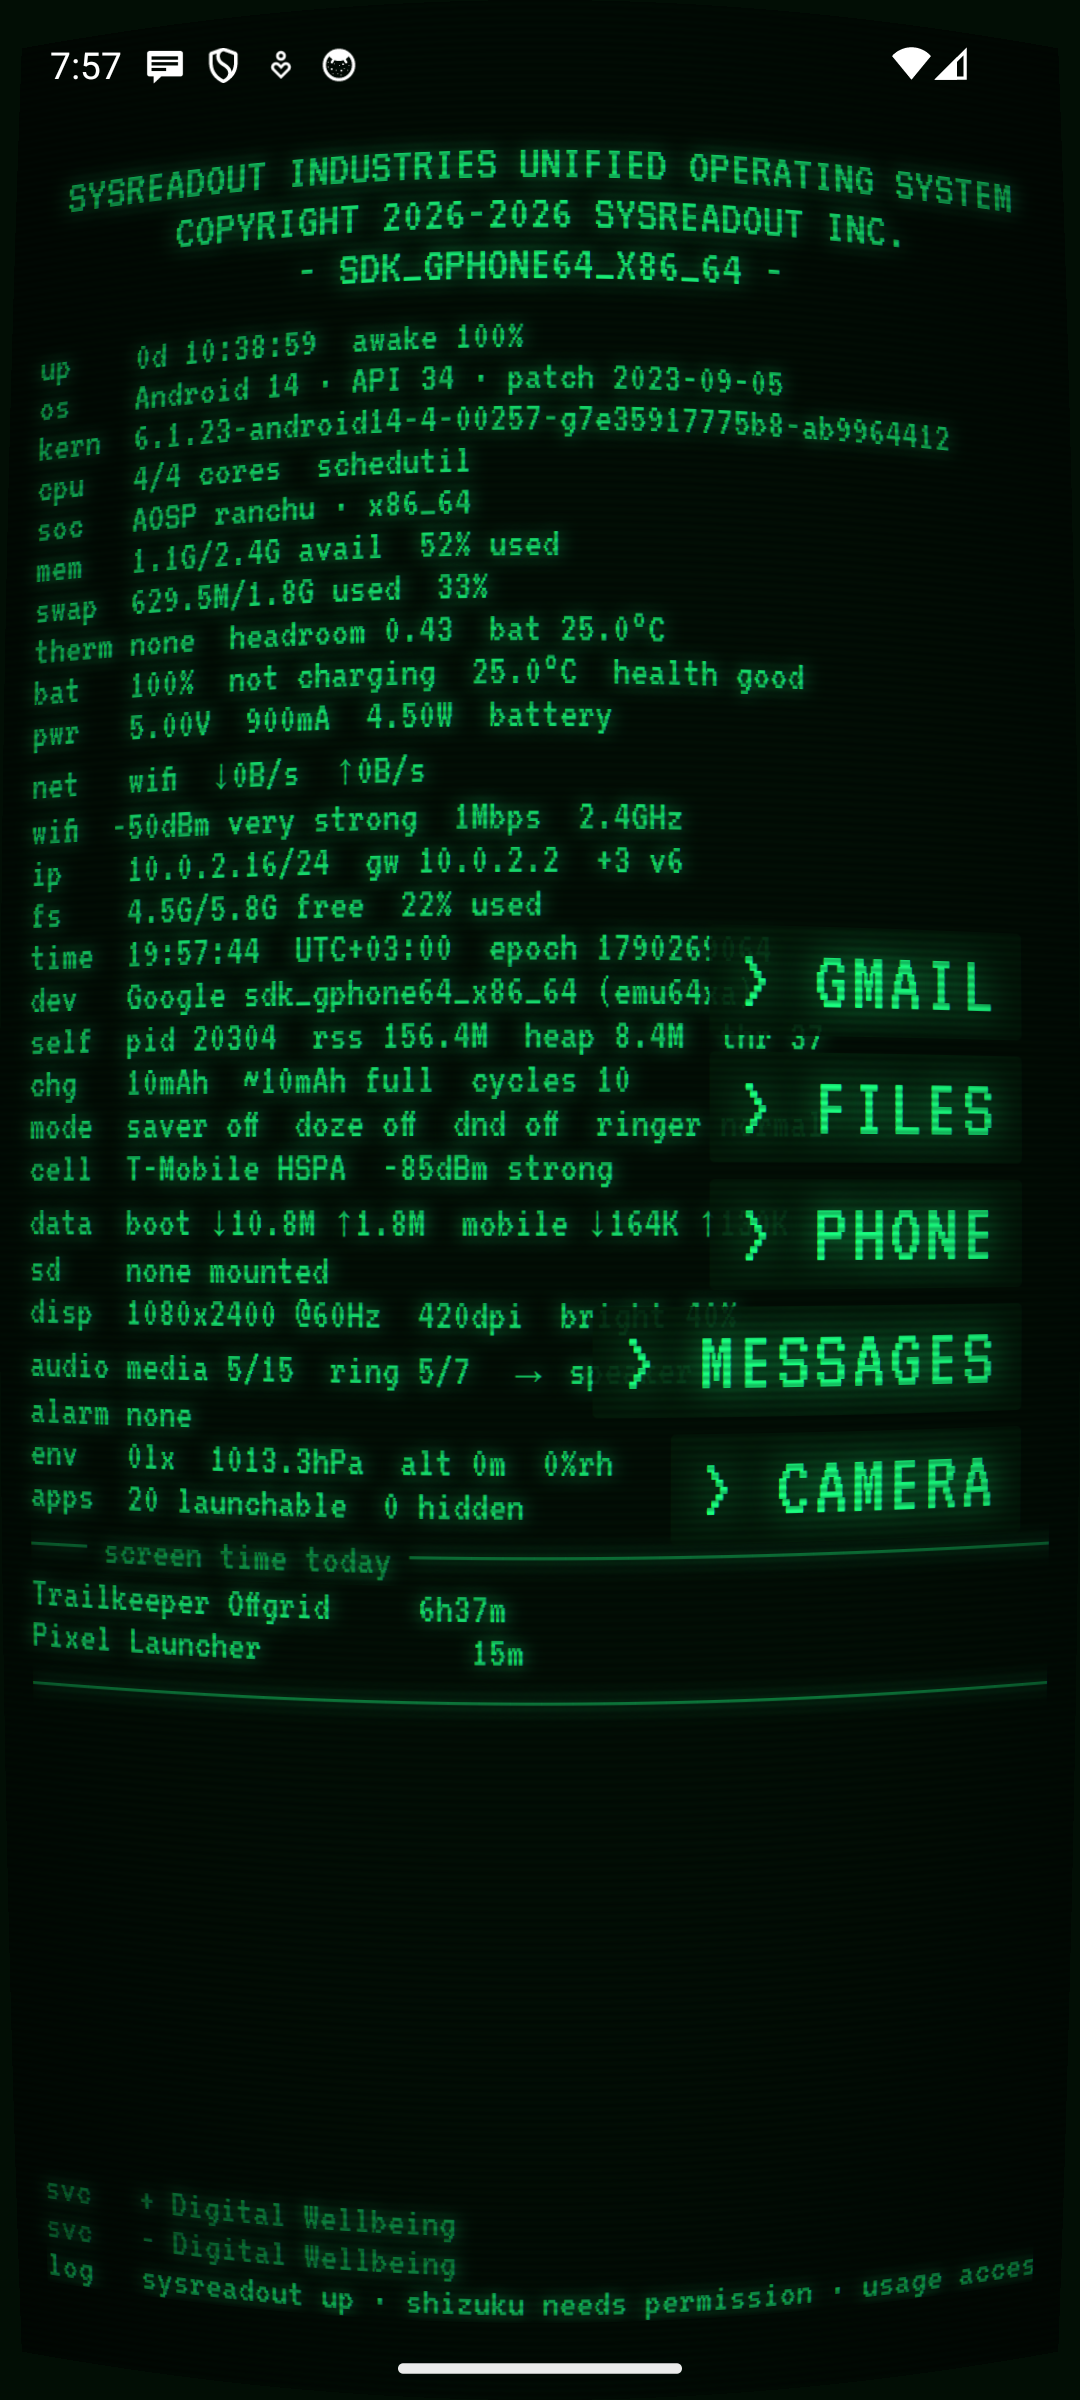
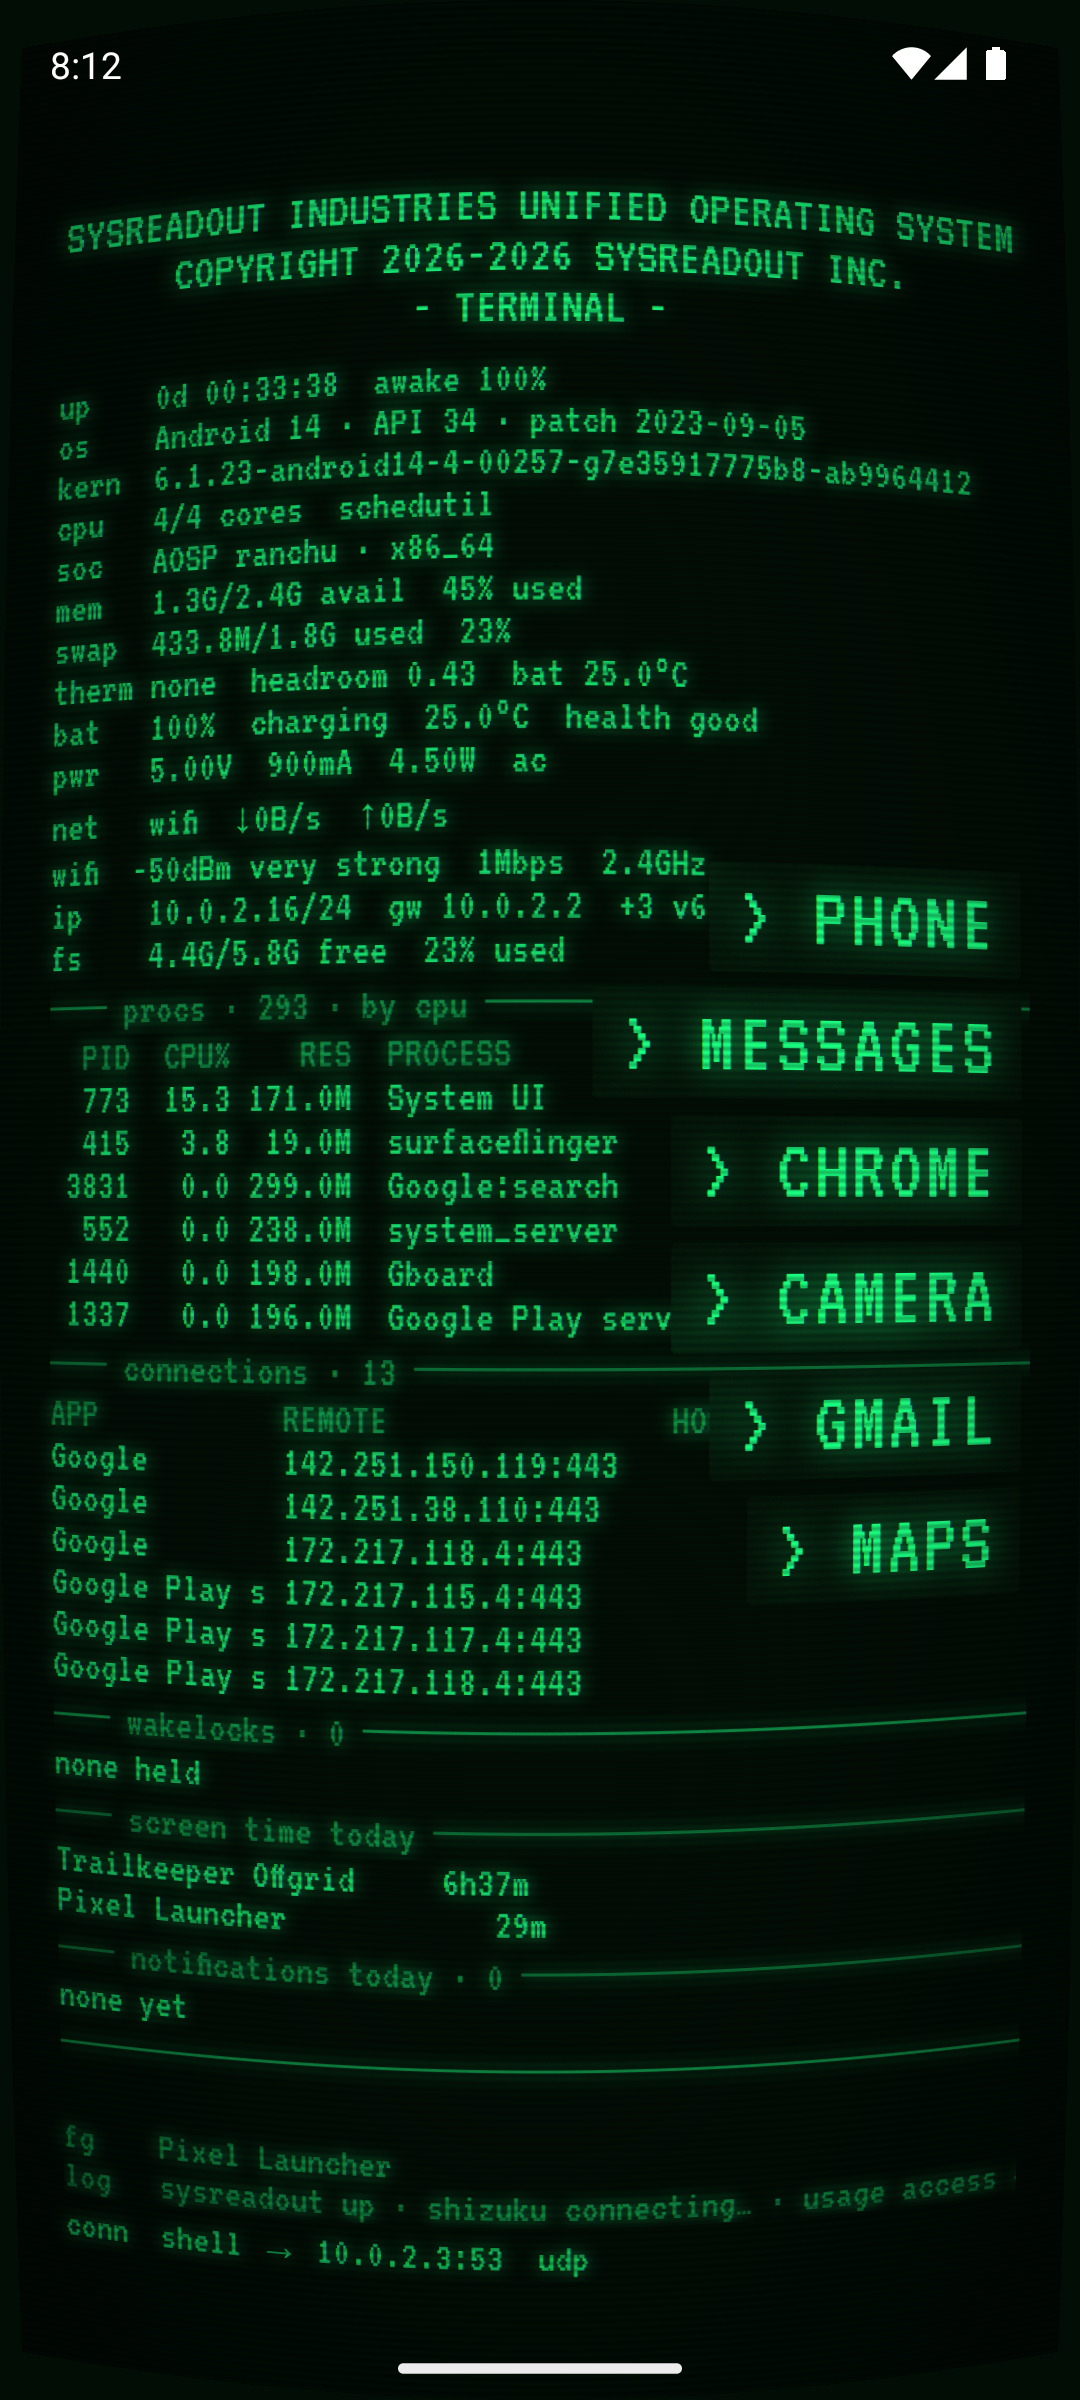
SysReadout Launcher 0.2.1: screenshots of every look
Store screenshots redone on the current version: all seven presets, a clean
home screen with the log switched off, the feed layout with Shizuku data, the
presets in settings, the drawer, the Shizuku setup page and the lock-screen
snapshot. The store description now says it can be a plain, quiet launcher.

Fixed: right after start, the log's first line could say Shizuku was off
although it was already connecting (Shizuku is now switched on before the
log starts).

Debug builds get unsaved home-screen previews over adb for screenshots
(--es pinned, --es style, --ez log/clock/date/shizuku, --es halign/valign).

diff --git a/app/src/main/java/com/asnidev/sysreadout/LauncherViewModel.kt b/app/src/main/java/com/asnidev/sysreadout/LauncherViewModel.kt
@@ -18,6 +18,9 @@ import androidx.lifecycle.viewModelScope
 import com.asnidev.sysreadout.apps.AppEntry
 import com.asnidev.sysreadout.apps.AppRepository
 import com.asnidev.sysreadout.data.AppKey
+import com.asnidev.sysreadout.data.EntryStyle
+import com.asnidev.sysreadout.data.HAlign
+import com.asnidev.sysreadout.data.VAlign
 import com.asnidev.sysreadout.data.LauncherPrefs
 import com.asnidev.sysreadout.data.LockMode
 import com.asnidev.sysreadout.data.LogLayout
@@ -59,6 +62,35 @@ import java.io.File
 
 enum class Screen { HOME, DRAWER, SETTINGS }
 
+/**
+ * Debug builds only: home-screen settings to show without saving them, for
+ * screenshots and quick looks. Null fields keep the saved value.
+ */
+data class HomePreview(
+    /** App labels, in order. */
+    val pinned: List<String>? = null,
+    val style: EntryStyle? = null,
+    val showLog: Boolean? = null,
+    val showClock: Boolean? = null,
+    val showDate: Boolean? = null,
+    val hAlign: HAlign? = null,
+    val vAlign: VAlign? = null,
+    val shizuku: Boolean? = null,
+) {
+    fun applyTo(m: MonitorPrefs): MonitorPrefs = shizuku?.let { m.copy(shizuku = it) } ?: m
+
+    fun applyTo(p: LauncherPrefs, apps: List<AppEntry>): LauncherPrefs = if (this == HomePreview()) p else p.copy(
+        pinned = pinned?.mapNotNull { label -> apps.firstOrNull { !it.isWork && it.label.equals(label, ignoreCase = true) }?.key }
+            ?: p.pinned,
+        entryStyle = style ?: p.entryStyle,
+        showLog = showLog ?: p.showLog,
+        showClock = showClock ?: p.showClock,
+        showDate = showDate ?: p.showDate,
+        hAlign = hAlign ?: p.hAlign,
+        vAlign = vAlign ?: p.vAlign,
+    )
+}
+
 class LauncherViewModel(app: Application) : AndroidViewModel(app) {
 
     // Background work that fails is logged, never allowed to crash the home screen.
@@ -75,14 +107,19 @@ class LauncherViewModel(app: Application) : AndroidViewModel(app) {
     private val store = SettingsStore(app)
 
     val apps: StateFlow<List<AppEntry>> = repo.apps
+    /** Debug builds only: home settings shown without being saved (`--es pinned …`, see MainActivity). */
+    val homePreview = MutableStateFlow(HomePreview())
+
     val prefs: StateFlow<LauncherPrefs> =
-        store.prefs.stateIn(scope, SharingStarted.Eagerly, LauncherPrefs())
+        combine(store.prefs, homePreview, repo.apps) { p, preview, apps -> preview.applyTo(p, apps) }
+            .stateIn(scope, SharingStarted.Eagerly, LauncherPrefs())
     val theme: StateFlow<Theme> =
         store.theme.stateIn(scope, SharingStarted.Eagerly, Presets.default.theme)
     val userPresets: StateFlow<List<Preset>> =
         store.presets.stateIn(scope, SharingStarted.Eagerly, emptyList())
     val monitor: StateFlow<MonitorPrefs> =
-        store.monitor.stateIn(scope, SharingStarted.Eagerly, MonitorPrefs())
+        combine(store.monitor, homePreview) { m, preview -> preview.applyTo(m) }
+            .stateIn(scope, SharingStarted.Eagerly, MonitorPrefs())
 
     /** Completed once the saved settings have reached [prefs] and [monitor] (they start as defaults). */
     private val settingsLoaded = CompletableDeferred<Unit>()
@@ -131,9 +168,11 @@ class LauncherViewModel(app: Application) : AndroidViewModel(app) {
                 val p = store.prefs.first()
                 // The StateFlows catch up on this same main thread a moment later.
                 withTimeoutOrNull(2_000) {
-                    monitor.first { it == m }
-                    prefs.first { it == p }
+                    monitor.first { it == homePreview.value.applyTo(m) }
+                    prefs.first { it == homePreview.value.applyTo(p, repo.apps.value) }
                 }
+                // Before the log starts, so its first line already knows whether Shizuku is on.
+                shizuku.setEnabled(monitor.value.shizuku && !safeMode.value)
             } finally {
                 settingsLoaded.complete(Unit)
             }

diff --git a/app/src/main/java/com/asnidev/sysreadout/MainActivity.kt b/app/src/main/java/com/asnidev/sysreadout/MainActivity.kt
@@ -27,7 +27,10 @@ import androidx.compose.ui.graphics.luminance
 import com.asnidev.sysreadout.ui.Drawer
 import com.asnidev.sysreadout.ui.HomeScreen
 import com.asnidev.sysreadout.ui.LogBackdrop
+import com.asnidev.sysreadout.data.EntryStyle
+import com.asnidev.sysreadout.data.HAlign
 import com.asnidev.sysreadout.data.LogLayout
+import com.asnidev.sysreadout.data.VAlign
 import com.asnidev.sysreadout.data.Presets
 import com.asnidev.sysreadout.ui.LocalStyled
 import com.asnidev.sysreadout.ui.crt
@@ -37,6 +40,7 @@ import com.asnidev.sysreadout.ui.settings.Page
 import com.asnidev.sysreadout.ui.settings.SettingsScreen
 import dev.chrisbanes.haze.HazeState
 import dev.chrisbanes.haze.haze
+import kotlinx.coroutines.flow.update
 
 class MainActivity : ComponentActivity() {
 
@@ -57,6 +61,10 @@ class MainActivity : ComponentActivity() {
      * touching saved settings, open a screen (home/drawer/settings) or a settings page,
      * draw the lock-screen snapshot to cache/snapshot.png instead of the wallpaper, or
      * crash on purpose (`--ez crash true`, twice in a row to try safe mode).
+     * Home settings for screenshots, also unsaved: `--es pinned "Phone,Chrome"`,
+     * `--es style bare`, `--ez log false`, `--ez clock false`, `--ez date false`,
+     * `--es halign center`, `--es valign top`,
+     * `--ez shizuku true`. Force-stopping the app drops all of them.
      */
     private fun preview(intent: Intent?) {
         if (!BuildConfig.DEBUG) return
@@ -81,6 +89,34 @@ class MainActivity : ComponentActivity() {
         }
         intent?.getStringExtra("screen")?.let { name ->
             Screen.entries.firstOrNull { it.name.equals(name, ignoreCase = true) }?.let { vm.screen = it }
+        }
+        intent?.getStringExtra("pinned")?.let { labels ->
+            vm.homePreview.update { it.copy(pinned = if (labels == "none") null else labels.split(',').map(String::trim)) }
+        }
+        intent?.getStringExtra("style")?.let { name ->
+            vm.homePreview.update { it.copy(style = EntryStyle.entries.firstOrNull { e -> e.name.equals(name, ignoreCase = true) }) }
+        }
+        intent?.getStringExtra("halign")?.let { name ->
+            vm.homePreview.update { it.copy(hAlign = HAlign.entries.firstOrNull { e -> e.name.equals(name, ignoreCase = true) }) }
+        }
+        intent?.getStringExtra("valign")?.let { name ->
+            vm.homePreview.update { it.copy(vAlign = VAlign.entries.firstOrNull { e -> e.name.equals(name, ignoreCase = true) }) }
+        }
+        if (intent?.hasExtra("log") == true) {
+            val show = intent.getBooleanExtra("log", true)
+            vm.homePreview.update { it.copy(showLog = show) }
+        }
+        if (intent?.hasExtra("clock") == true) {
+            val show = intent.getBooleanExtra("clock", true)
+            vm.homePreview.update { it.copy(showClock = show) }
+        }
+        if (intent?.hasExtra("date") == true) {
+            val show = intent.getBooleanExtra("date", true)
+            vm.homePreview.update { it.copy(showDate = show) }
+        }
+        if (intent?.hasExtra("shizuku") == true) {
+            val on = intent.getBooleanExtra("shizuku", false)
+            vm.homePreview.update { it.copy(shizuku = on) }
         }
         intent?.getStringExtra("page")?.let { name ->
             Page.byName(name)?.let {

diff --git a/README.md b/README.md
@@ -8,11 +8,13 @@ an old CRT terminal. Built for people who like to know what their phone is doing
 SRL for short.
 
 <p>
-<img src="metadata/en-US/images/phoneScreenshots/01_wasteland.png" width="200" alt="Wasteland preset: green phosphor terminal with CRT curvature">
-<img src="metadata/en-US/images/phoneScreenshots/02_amber.png" width="200" alt="Amber P3 preset with DOS font">
-<img src="metadata/en-US/images/phoneScreenshots/03_default.png" width="200" alt="Default preset">
-<img src="metadata/en-US/images/phoneScreenshots/06_settings.png" width="200" alt="Settings">
+<img src="metadata/en-US/images/phoneScreenshots/01_wasteland.png" width="190" alt="Wasteland preset: green phosphor terminal with CRT curvature, processes and connections from Shizuku">
+<img src="metadata/en-US/images/phoneScreenshots/02_clean.png" width="190" alt="A clean home screen: the minimal preset with the log switched off">
+<img src="metadata/en-US/images/phoneScreenshots/03_amber_feed.png" width="190" alt="Amber P3 preset with the feed layout">
+<img src="metadata/en-US/images/phoneScreenshots/09_presets.png" width="190" alt="The seven built-in presets in settings">
 </p>
+
+From a full CRT terminal to a plain list of apps: every look, the log and each effect can be switched on or off.
 
 ## Features
 
